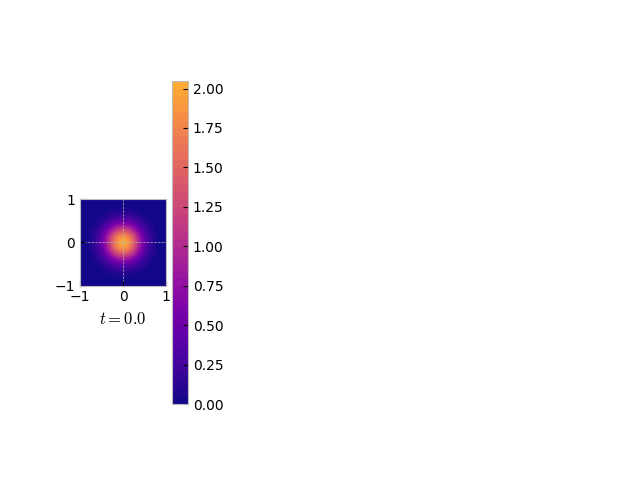
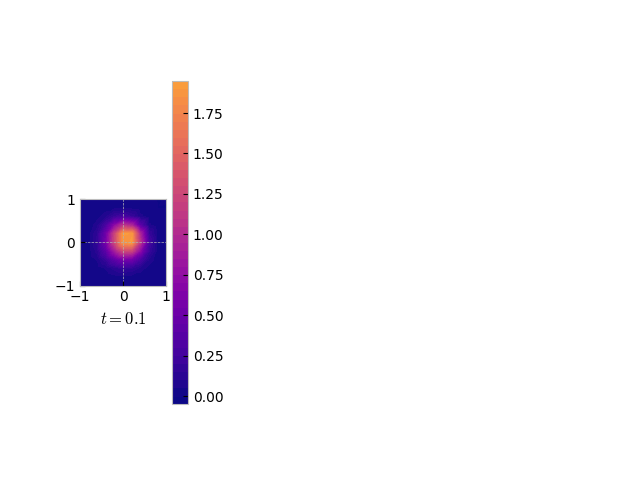
increase time step

diff --git a/2d_burger_pod.py b/2d_burger_pod.py
@@ -9,18 +9,18 @@ from ldfnp_ext_cholmod import SparseFactorMassmat
 
 dolfin.parameters['linear_algebra_backend'] = 'Eigen'
 
-nu = 1e-4  # the viscosity
+nu = 1.0  # the viscosity
 
-N = 80
+N = 20
 poddim = 25
 
-t0, tE, Nts = 0., 1., 101  # the time grid for the snapshots
+t0, tE, Nts = 0., 1., 1001  # the time grid for the snapshots
 timegrid = np.linspace(t0, tE, Nts)
 
 plt.style.use('bmh')
 vmax = 2.5  # uniform scaling for the plot colors
 nplts = 4  # number of plots
-pltgrid = [x*np.int(np.floor(Nts/(nplts-1))) for x in range(nplts)]
+pltgrid = [x*np.int(np.floor(Nts/(nplts-1)))+10 for x in range(nplts)]
 
 # The mesh
 pone = dolfin.Point(-1, -1)
